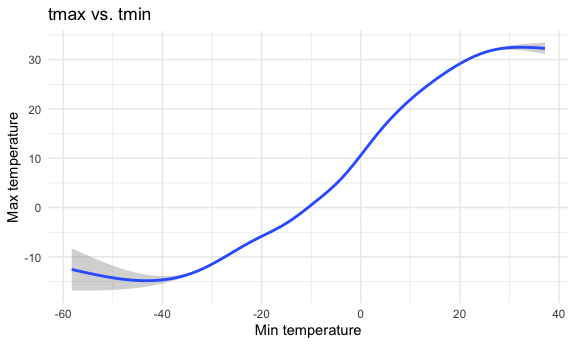
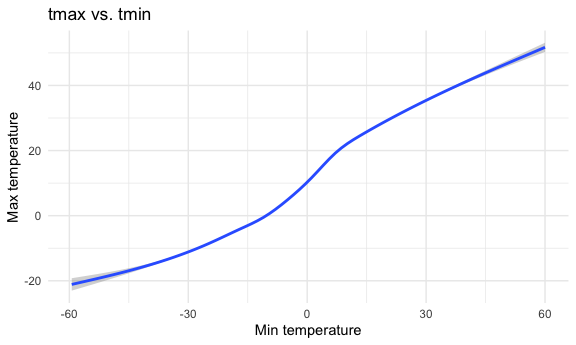
Editing NAs in problem 3

diff --git a/p8105_hw3_zq2209.md b/p8105_hw3_zq2209.md
@@ -457,7 +457,6 @@ Jan. And there is no obvious outliers.
 ``` r
 # The plot showing tmax vs tmin
 tmax_vs_tmin = noaa %>% 
-  drop_na() %>% 
   ggplot(aes(x = tmin, y = tmax)) +
   geom_smooth() +
   labs(title = "tmax vs. tmin",
@@ -469,16 +468,17 @@ tmax_vs_tmin
 
     ## `geom_smooth()` using method = 'gam' and formula 'y ~ s(x, bs = "cs")'
 
+    ## Warning: Removed 1136276 rows containing non-finite values (stat_smooth).
+
 <img src="p8105_hw3_zq2209_files/figure-gfm/unnamed-chunk-17-1.png" width="90%" />
 
-From the plot, it is not linear, more likely a s shape. Max temperatures
-are approximate from -15 to 35. And the min temperature are from -60 to
-40.
+From the plot, it is not very linear overall, more likely a s shape in
+the middle. Max temperatures are approximate from -20 to 45. And the min
+temperature are from -60 to 60.
 
 ``` r
 # The plot showing snowfall values greater than 0 and less than 100 separately by year.
 snowfall = noaa %>% 
-  drop_na() %>% 
   filter(snow > 0, snow < 100) %>% 
   mutate(year = as.factor(year)) %>% 
   ggplot(aes(x = snow, y = year, fill = year)) +
@@ -489,7 +489,7 @@ snowfall = noaa %>%
 snowfall
 ```
 
-    ## Picking joint bandwidth of 4.24
+    ## Picking joint bandwidth of 3.76
 
 <img src="p8105_hw3_zq2209_files/figure-gfm/unnamed-chunk-18-1.png" width="90%" />
 
@@ -504,7 +504,9 @@ tmax_vs_tmin + snowfall
 
     ## `geom_smooth()` using method = 'gam' and formula 'y ~ s(x, bs = "cs")'
 
-    ## Picking joint bandwidth of 4.24
+    ## Warning: Removed 1136276 rows containing non-finite values (stat_smooth).
+
+    ## Picking joint bandwidth of 3.76
 
 <img src="p8105_hw3_zq2209_files/figure-gfm/unnamed-chunk-19-1.png" width="90%" />
 
